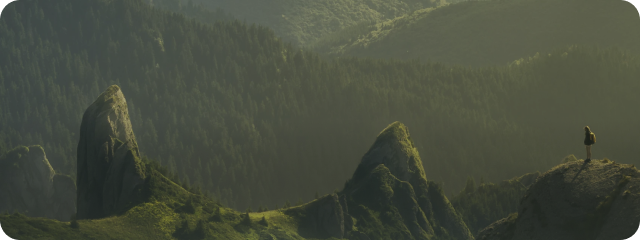
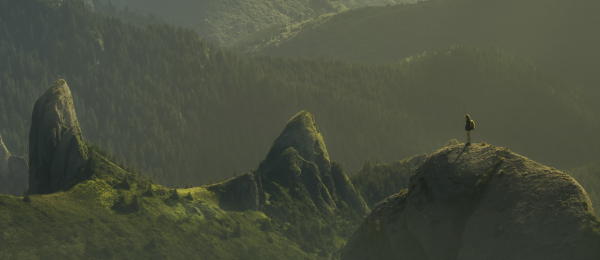
Add CircleButton. New layout for DialogHeader. (#77)

diff --git a/plugins/recruit-resources/src/components/DialogHeader.svelte b/plugins/recruit-resources/src/components/DialogHeader.svelte
@@ -18,8 +18,11 @@
   import { getMetadata } from '@anticrm/platform'
   import login from '@anticrm/login'
 
-  import { EditBox, Button, Label } from '@anticrm/ui'
+  import { EditBox, Button, CircleButton, Grid, Label } from '@anticrm/ui'
   import FileUpload from './icons/FileUpload.svelte'
+  import Edit from './icons/Edit.svelte'
+  import Twitter from './icons/Twitter.svelte'
+  import User from './icons/User.svelte'
 
   let dragover = false
 
@@ -53,27 +56,40 @@
     on:dragover|preventDefault={ ()=>{} }
     on:dragleave={ () => { dragover = false } }
     on:drop|preventDefault|stopPropagation={drop}>
-  <div class="main-content">
-    <div class="avatar"></div>
-    <div class="name"><EditBox placeholder="John"/>&nbsp;<EditBox placeholder="Appleseed"/></div>
-    <div class="title">Candidate title</div>
-    <!-- <input type="file" name="file" id="file"/> -->
+  <div class="flex-row-center main-content">
+    <div class="avatar"><User /></div>
+    <div class="flex-col">
+      <div class="name">
+        <input type="text" placeholder="John" />
+        <input type="text" placeholder="Appleseed" />
+      </div>
+      <!-- <div class="name"><EditBox placeholder="John"/>&nbsp;<EditBox placeholder="Appleseed"/></div> -->
+      <div class="title"><EditBox placeholder="Los Angeles"/></div>
+      <!-- <input type="file" name="file" id="file"/> -->
+    </div>
   </div>
   <div class="lb-content">
     <Button label={'Upload resume'} icon={FileUpload} size={'small'} transparent primary />
   </div>
-  <div class="rt-content">
+  <div class="rb-content">
     <Button label={'Save'} size={'small'} transparent />
+  </div>
+  <div class="rt-content">
+    <Grid column={2} columnGap={.5}>
+      <CircleButton icon={Twitter} label={'Twitter'} />
+      <CircleButton icon={Edit} label={'Edit'} />
+    </Grid>
   </div>
 </div>
 
 <style lang="scss">
   .header {
     position: relative;
-    display: flex;
-    justify-content: center;
-    align-items: center;
-    width: 40rem;
+    // display: flex;
+    // justify-content: center;
+    // align-items: center;
+    padding: 1.5rem 1.5rem 0;
+    width: 37.5rem;
     min-height: 15rem;
     height: 15rem;
     background-image: url(../../img/header-green.png);
@@ -87,45 +103,53 @@
     }
 
     .main-content {
-      display: flex;
-      flex-direction: column;
-      align-items: center;
-
       .avatar {
-        width: 5rem;
-        height: 5rem;
+        display: flex;
+        justify-content: center;
+        align-items: center;
+        margin-right: 1.25rem;
+        width: 6rem;
+        height: 6rem;
         border-radius: 50%;
-        background-color: #C4C4C4;
+        background-color: rgba(255, 255, 255, .2);
+        backdrop-filter: blur(3px);
+        box-shadow: 0 1.5rem 3rem rgba(0, 0, 0, .3);
       }
       .name {
-        margin-top: .625rem;
-        font-size: 1rem;
+        display: flex;
+        flex-direction: column;
+        font-size: 1.25rem;
         font-weight: 500;
-        line-height: 150%;
         color: #fff;
+        input {
+          margin: 0;
+          padding: 0;
+          border: none;
+          &::placeholder { color: var(--theme-content-dark-color); }
+        }
       }
       .title {
-        margin-top: .25rem;
+        margin-top: .5rem;
         font-size: .75rem;
         font-weight: 500;
-        color: rgba(255, 255, 255, .8);
+        color: rgba(255, 255, 255, .6);
       }
     }
 
     .lb-content {
       position: absolute;
-      left: 1rem;
-      bottom: 1rem;
+      left: 1.5rem;
+      bottom: 1.5rem;
     }
     .rb-content {
       position: absolute;
-      right: 1rem;
-      bottom: 1rem;
+      right: 1.5rem;
+      bottom: 1.5rem;
     }
     .rt-content {
       position: absolute;
-      top: 1rem;
-      right: 1rem;
+      top: 1.5rem;
+      right: 1.5rem;
     }
   }
 </style>

diff --git a/packages/ui/src/components/CircleButton.svelte b/packages/ui/src/components/CircleButton.svelte
@@ -1,0 +1,61 @@
+<!--
+// Copyright © 2020 Anticrm Platform Contributors.
+// 
+// Licensed under the Eclipse Public License, Version 2.0 (the "License");
+// you may not use this file except in compliance with the License. You may
+// obtain a copy of the License at https://www.eclipse.org/legal/epl-2.0
+// 
+// Unless required by applicable law or agreed to in writing, software
+// distributed under the License is distributed on an "AS IS" BASIS,
+// WITHOUT WARRANTIES OR CONDITIONS OF ANY KIND, either express or implied.
+// 
+// See the License for the specific language governing permissions and
+// limitations under the License.
+-->
+
+<script lang="ts">
+  import type { IntlString, Asset } from '@anticrm/platform'
+  import type { AnySvelteComponent } from '@anticrm/ui'
+  import Icon from './Icon.svelte'
+
+  export let icon: Asset | AnySvelteComponent
+  export let label: IntlString | undefined
+</script>
+
+<div class="icon-button">
+  <div class="content">
+    {#if typeof (icon) === 'string'}
+      <Icon {icon} size={'small'}/>
+    {:else}
+      <svelte:component this={icon} size={'small'} />
+    {/if}
+  </div>
+</div>
+
+<style lang="scss">
+  .icon-button {
+    display: flex;
+    justify-content: center;
+    align-items: center;
+    width: 2rem;
+    height: 2rem;
+    background-color: rgba(255, 255, 255, .2);
+    border-radius: 50%;
+    backdrop-filter: blur(3px);
+    cursor: pointer;
+
+    .content {
+      transform-origin: center center;
+      transform: scale(.75);
+    }
+
+    &:hover {
+      background-color: rgba(255, 255, 255, .25);
+      box-shadow: 0 0 1rem rgba(0, 0, 0, .3);
+    }
+    &:active {
+      background-color: rgba(255, 255, 255, .15);
+      box-shadow: 0 0 1rem rgba(0, 0, 0, .1);
+    }
+  }
+</style>

diff --git a/plugins/recruit-resources/src/components/icons/User.svelte b/plugins/recruit-resources/src/components/icons/User.svelte
@@ -1,0 +1,26 @@
+<!--
+// Copyright © 2020, 2021 Anticrm Platform Contributors.
+// Copyright © 2021 Hardcore Engineering Inc.
+// 
+// Licensed under the Eclipse Public License, Version 2.0 (the "License");
+// you may not use this file except in compliance with the License. You may
+// obtain a copy of the License at https://www.eclipse.org/legal/epl-2.0
+// 
+// Unless required by applicable law or agreed to in writing, software
+// distributed under the License is distributed on an "AS IS" BASIS,
+// WITHOUT WARRANTIES OR CONDITIONS OF ANY KIND, either express or implied.
+// 
+// See the License for the specific language governing permissions and
+// limitations under the License.
+-->
+
+<script lang="ts">
+  // export let size: 'small' | 'medium' | 'large'
+  const fill: string = 'var(--theme-caption-color)'
+</script>
+
+<svg width={40} height={40} {fill} xmlns="http://www.w3.org/2000/svg" viewBox="0 0 40 40">
+  <path d="M32.4,34.3c-0.3,0-0.6-0.2-0.7-0.5c-0.7-1.9-2.2-3.5-4.2-4.7c-2.1-1.2-4.7-1.9-7.4-1.9c-2.7,0-5.3,0.7-7.4,1.9 c-2.1,1.2-3.6,2.9-4.2,4.7c-0.1,0.4-0.6,0.6-1,0.5c-0.4-0.1-0.6-0.6-0.5-1c0.8-2.2,2.5-4.2,4.9-5.5c2.3-1.3,5.2-2.1,8.2-2.1 s5.8,0.7,8.2,2.1c2.4,1.4,4.1,3.3,4.9,5.5c0.1,0.4-0.1,0.8-0.5,1C32.5,34.3,32.4,34.3,32.4,34.3z"/>
+  <circle style="opacity: .25;" cx="20" cy="13.6" r="6.4"/>
+  <path d="M20,20.8c-3.9,0-7.1-3.2-7.1-7.1s3.2-7.1,7.1-7.1s7.2,3.2,7.2,7.1S23.9,20.8,20,20.8z M20,8 c-3.1,0-5.6,2.5-5.6,5.6s2.5,5.6,5.6,5.6s5.7-2.5,5.7-5.6S23.1,8,20,8z"/>
+</svg>

diff --git a/plugins/recruit-resources/src/components/icons/Twitter.svelte b/plugins/recruit-resources/src/components/icons/Twitter.svelte
@@ -1,0 +1,24 @@
+<!--
+// Copyright © 2020, 2021 Anticrm Platform Contributors.
+// Copyright © 2021 Hardcore Engineering Inc.
+// 
+// Licensed under the Eclipse Public License, Version 2.0 (the "License");
+// you may not use this file except in compliance with the License. You may
+// obtain a copy of the License at https://www.eclipse.org/legal/epl-2.0
+// 
+// Unless required by applicable law or agreed to in writing, software
+// distributed under the License is distributed on an "AS IS" BASIS,
+// WITHOUT WARRANTIES OR CONDITIONS OF ANY KIND, either express or implied.
+// 
+// See the License for the specific language governing permissions and
+// limitations under the License.
+-->
+
+<script lang="ts">
+  export let size: 'small' | 'medium' | 'large'
+  const fill: string = 'var(--theme-caption-color)'
+</script>
+
+<svg class="svg-{size}" {fill} viewBox="0 0 16 16" xmlns="http://www.w3.org/2000/svg">
+  <path d="M5,14.8c-1.8,0-3.6-0.6-5-1.5c1.2,0.1,3.4-0.1,4.8-1.4c-2-0.1-3-1.7-3.1-2.4c0.2,0.1,1,0.2,1.5,0C0.8,8.8,0.5,6.7,0.5,6 C1,6.3,1.7,6.4,2,6.4c-2.2-1.6-1.4-4-1-4.5c1.6,2.2,3.9,3.5,6.8,3.6C7.7,5.2,7.7,4.9,7.7,4.7c0-1.9,1.5-3.4,3.3-3.4 c1,0,1.8,0.4,2.4,1.1c0.6-0.2,1.6-0.5,2.1-0.8c-0.2,0.9-1,1.6-1.4,1.9c0,0,0,0,0,0c0.4-0.1,1.5-0.3,1.9-0.6c-0.2,0.5-1,1.3-1.6,1.8 C14.5,10,10.4,14.8,5,14.8z"/>
+</svg>

diff --git a/plugins/recruit-resources/src/components/icons/Edit.svelte b/plugins/recruit-resources/src/components/icons/Edit.svelte
@@ -1,0 +1,24 @@
+<!--
+// Copyright © 2020, 2021 Anticrm Platform Contributors.
+// Copyright © 2021 Hardcore Engineering Inc.
+// 
+// Licensed under the Eclipse Public License, Version 2.0 (the "License");
+// you may not use this file except in compliance with the License. You may
+// obtain a copy of the License at https://www.eclipse.org/legal/epl-2.0
+// 
+// Unless required by applicable law or agreed to in writing, software
+// distributed under the License is distributed on an "AS IS" BASIS,
+// WITHOUT WARRANTIES OR CONDITIONS OF ANY KIND, either express or implied.
+// 
+// See the License for the specific language governing permissions and
+// limitations under the License.
+-->
+
+<script lang="ts">
+  export let size: 'small' | 'medium' | 'large'
+  const fill: string = 'var(--theme-caption-color)'
+</script>
+
+<svg class="svg-{size}" {fill} viewBox="0 0 16 16" xmlns="http://www.w3.org/2000/svg">
+  <path d="M13.3,6.5l1.9-1.9c1.1-1.1,1.1-2.8,0-3.8c-1.1-1.1-2.8-1.1-3.8,0L9.5,2.7C10.4,4.3,11.7,5.6,13.3,6.5z M12.3,7.6c-1.6-1-2.9-2.3-3.8-3.8l-6.3,6.3l0,0C1.5,10.7,1.2,11,1,11.4c-0.2,0.4-0.3,0.8-0.5,1.6l-0.4,2c-0.1,0.5-0.1,0.7,0,0.9 c0.1,0.1,0.4,0.1,0.9,0l2-0.4c0.8-0.2,1.3-0.3,1.6-0.5c0.4-0.2,0.7-0.5,1.3-1.1L12.3,7.6z"/>
+</svg>

diff --git a/packages/ui/src/index.ts b/packages/ui/src/index.ts
@@ -50,6 +50,7 @@ export { default as CheckBoxList } from './components/CheckBoxList.svelte'
 export { default as EditWithIcon } from './components/EditWithIcon.svelte'
 export { default as Loading } from './components/Loading.svelte'
 export { default as Popup } from './components/Popup.svelte'
+export { default as CircleButton } from './components/CircleButton.svelte'
 
 export { default as IconAdd } from './components/icons/Add.svelte'
 export { default as IconSearch } from './components/icons/Search.svelte'

diff --git a/packages/ui/src/components/Dialog.svelte b/packages/ui/src/components/Dialog.svelte
@@ -60,7 +60,7 @@
     .dialog {
       display: flex;
       flex-direction: column;
-      width: 45rem;
+      width: 42.5rem;
       min-height: 100vh;
       max-height: 100vh;
       background-color: var(--theme-bg-color);

diff --git a/packages/ui/src/components/EditBox.svelte b/packages/ui/src/components/EditBox.svelte
@@ -100,6 +100,7 @@
   input {
     margin: 0;
     padding: 0;
+    color: inherit;
     border: none;
     border-radius: 2px;
 
